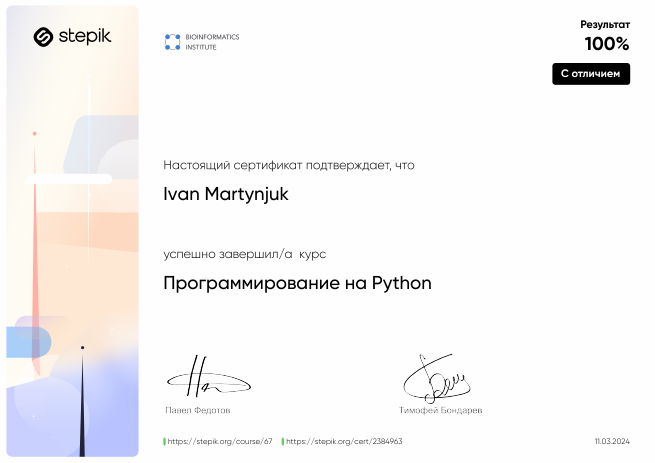
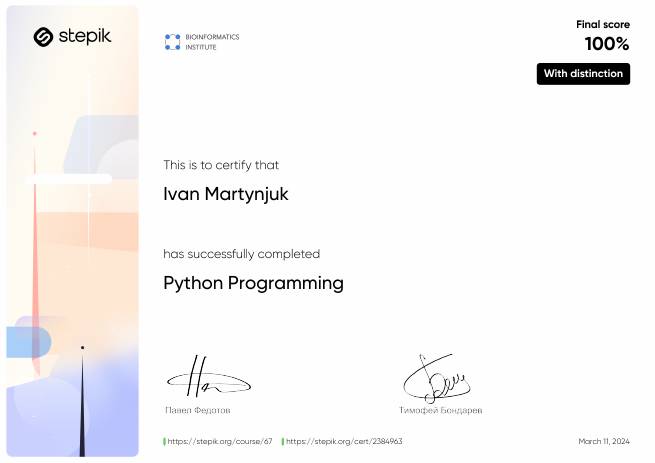
feat: add description to certificates Thu, Aug 22, 2024  3:08:35 PM

diff --git a/README.md b/README.md
@@ -132,7 +132,19 @@
 
 <hr>
 
-<h3 align="center">Certificates:</h3>
+<h3 align="center">Courses:</h3>
 
-<img width="33%" alt="js-pre" src="assets/react.png" /> <img width="33%" alt="js-fe" src="assets/js-fe.png" /> <img width="33%" alt="js-pre" src="assets/pre-school.png" />
-<img width="33%" alt="py-bio" src="assets/py.png" />
+<h4>JavaScript:</h4>
+
+- React 2023Q4
+
+- JS Frontend 2023Q1
+
+- JS pre-school 2022Q4
+
+<a href="https://app.rs.school/certificate/9s7trg01" target="_blank" rel="noreferrer"><img width="33%" alt="react" src="assets/react.png" />
+<a href="https://app.rs.school/certificate/b4d05mfa" target="_blank" rel="noreferrer"><img width="33%" alt="js-fe" src="assets/js-fe.png" />
+<a href="https://app.rs.school/certificate/fasl8zrn" target="_blank" rel="noreferrer"><img width="33%" alt="js-pre" src="assets/pre-school.png" />
+
+<h4>Python:</h4>
+<a href="https://stepik.org/cert/2384963?lang=en" target="_blank" rel="noreferrer"><img width="33%" alt="py" src="assets/py.png" /></a>
